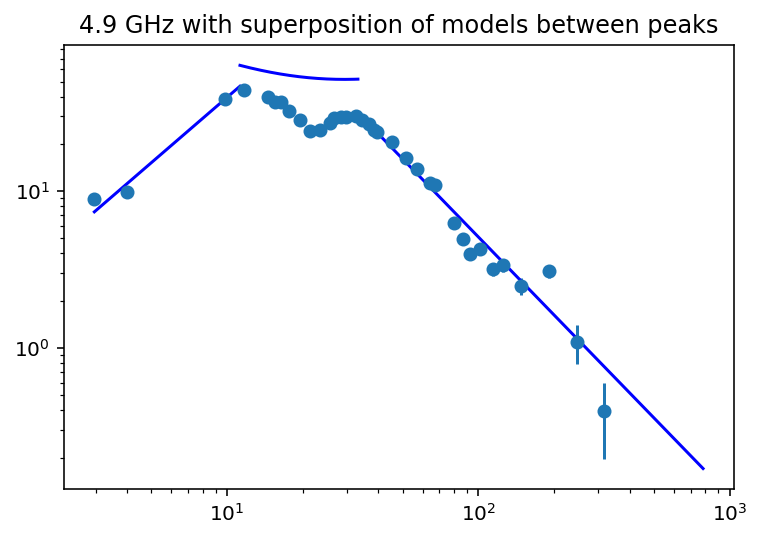
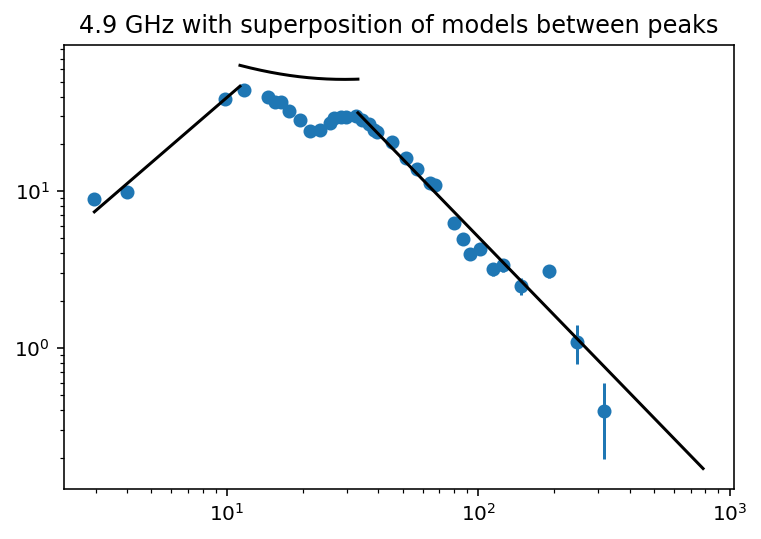
update pngs

diff --git a/src/analysis/980425_modeling.py b/src/analysis/980425_modeling.py
@@ -237,14 +237,14 @@ def light_curve_fit(freq_set, set_break, set_name):
     fig, ax = plt.subplots()
     
     ax.errorbar(x= first_peak[time_col], y = first_peak[flux_col], 
-                yerr= first_peak[flux_err_col], fmt = 'o')
+                yerr= first_peak[flux_err_col], fmt = 'o', zorder =2)
     ax.errorbar(x= second_peak[time_col], y = second_peak[flux_col], 
-                yerr= second_peak[flux_err_col], fmt = 'o', c = 'r')
+                yerr= second_peak[flux_err_col], fmt = 'o', c = 'r', zorder=2)
     ax.set_title(f' {set_name} GHz band with fit\nfirst slope set 1 = {first_slope_1:.3f}, first slope set 2 = {first_slope_2:.3f},\nsecond slope set 1 = {second_slope_1:.3f} , second slope set 2 = {second_slope_2:.3f}')
     ax.set_xscale('log')
     ax.set_yscale('log')
-    ax.plot(x_fit_1, y_fit_1, "b-", label="Broken power law fit 1")
-    ax.plot(x_fit_2, y_fit_2, "k-", label="Broken power law fit 2")
+    ax.plot(x_fit_1, y_fit_1, "b-", label="Broken power law fit 1", zorder=5)
+    ax.plot(x_fit_2, y_fit_2, "k-", label="Broken power law fit 2", zorder=5)
     ax.legend()
     plt.show()
     
@@ -285,8 +285,8 @@ ax.errorbar(x= freq_49[time_col], y = freq_49[flux_col],
 ax.set_title('4.9 GHz with superposition of models between peaks')
 ax.set_xscale('log')
 ax.set_yscale('log')
-ax.plot(x_fit_1, y_fit_1, "b-", label="Broken power law fit 1")
-ax.plot(x_fit_2, y_fit_2, "b-", label="Broken power law fit 2- superposition")
-ax.plot(x_fit_3, y_fit_3, "b-", label="Broken power law fit 3")
+ax.plot(x_fit_1, y_fit_1, "k-", label="Broken power law fit 1", zorder=5)
+ax.plot(x_fit_2, y_fit_2, "k-", label="Broken power law fit 2- superposition", zorder=5)
+ax.plot(x_fit_3, y_fit_3, "k-", label="Broken power law fit 3", zorder=5)
 plt.show()
 
